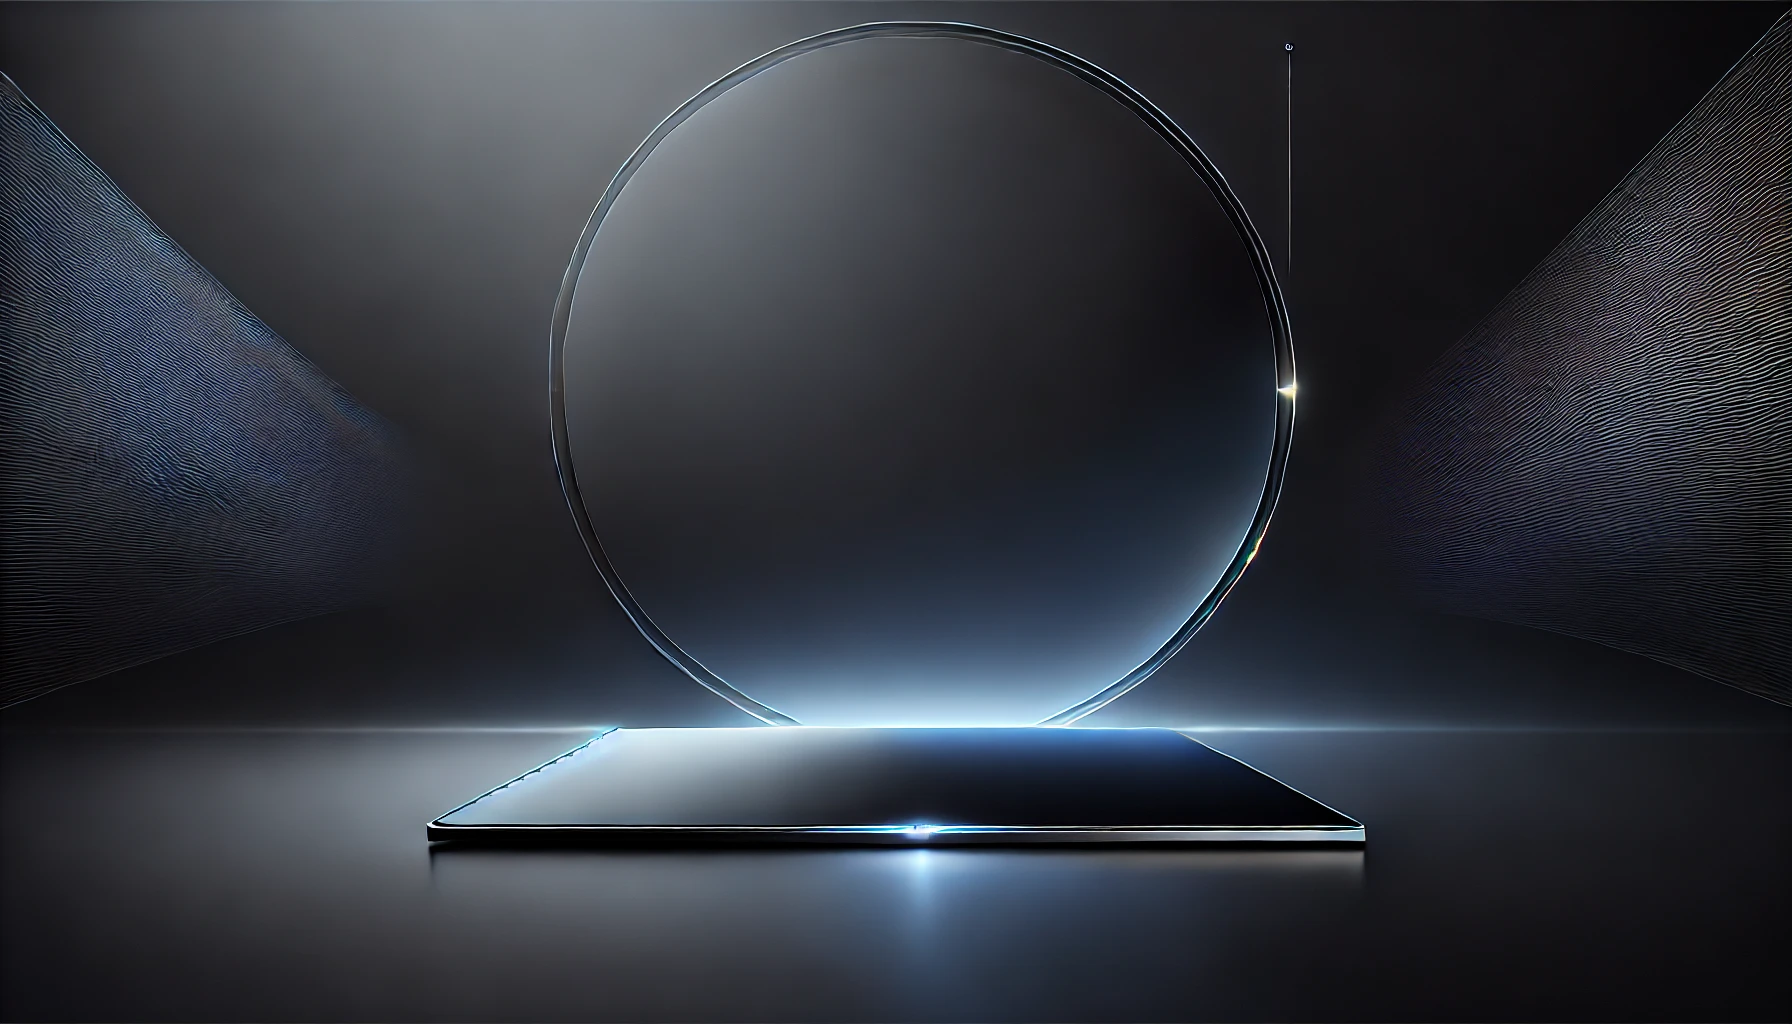
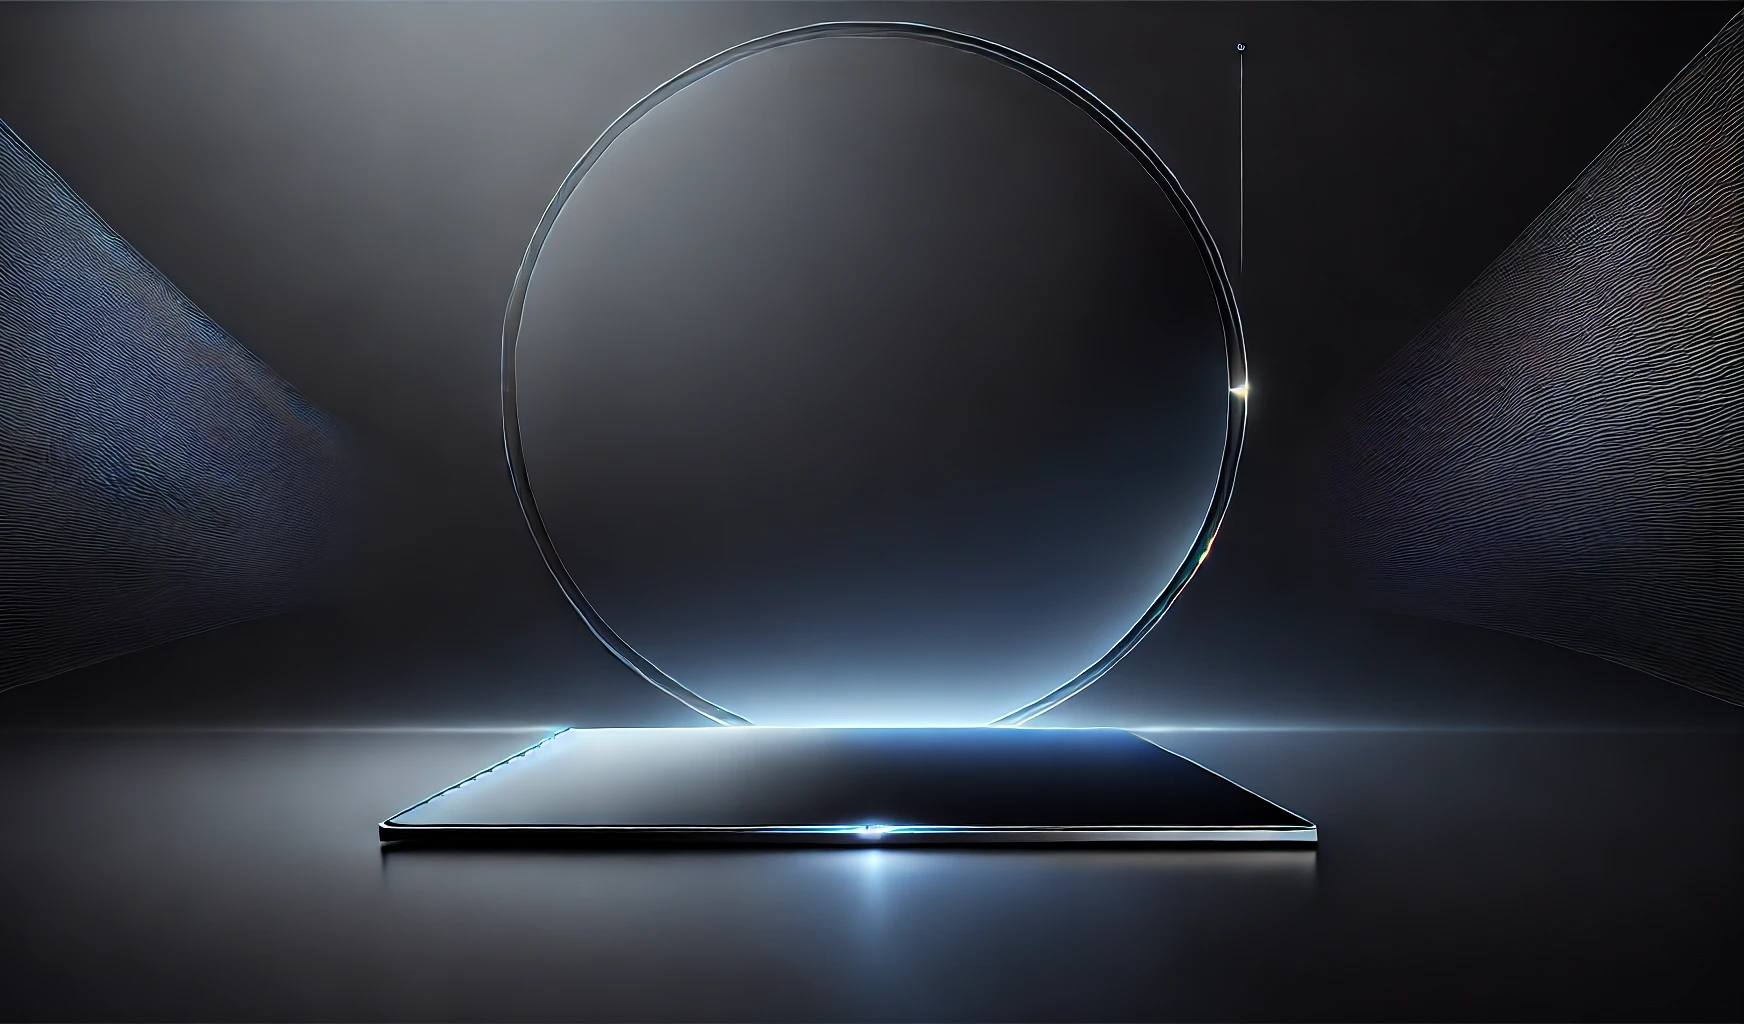
Modify background to make it centered

diff --git a/src/components/NeonAnimation.js b/src/components/NeonAnimation.js
@@ -22,7 +22,7 @@ function NeonAnimation({ gameState }) {
             <Lottie
                 animationData={animationData}
                 loop={true}
-                style={{ width: '70%', height: '70%' }}
+                style={{ width: '78%', height: '78%' }}
             />
         </div>
     );

diff --git a/src/components/NeonAnimation.css b/src/components/NeonAnimation.css
@@ -9,7 +9,7 @@
     display: flex;
     justify-content: center;
     align-items: center;
-    transform: translate(20px, -75px);
+    transform: translate(0px, -75px);
     transition: opacity 0.5s ease-in-out;
     opacity: 1;
 }
